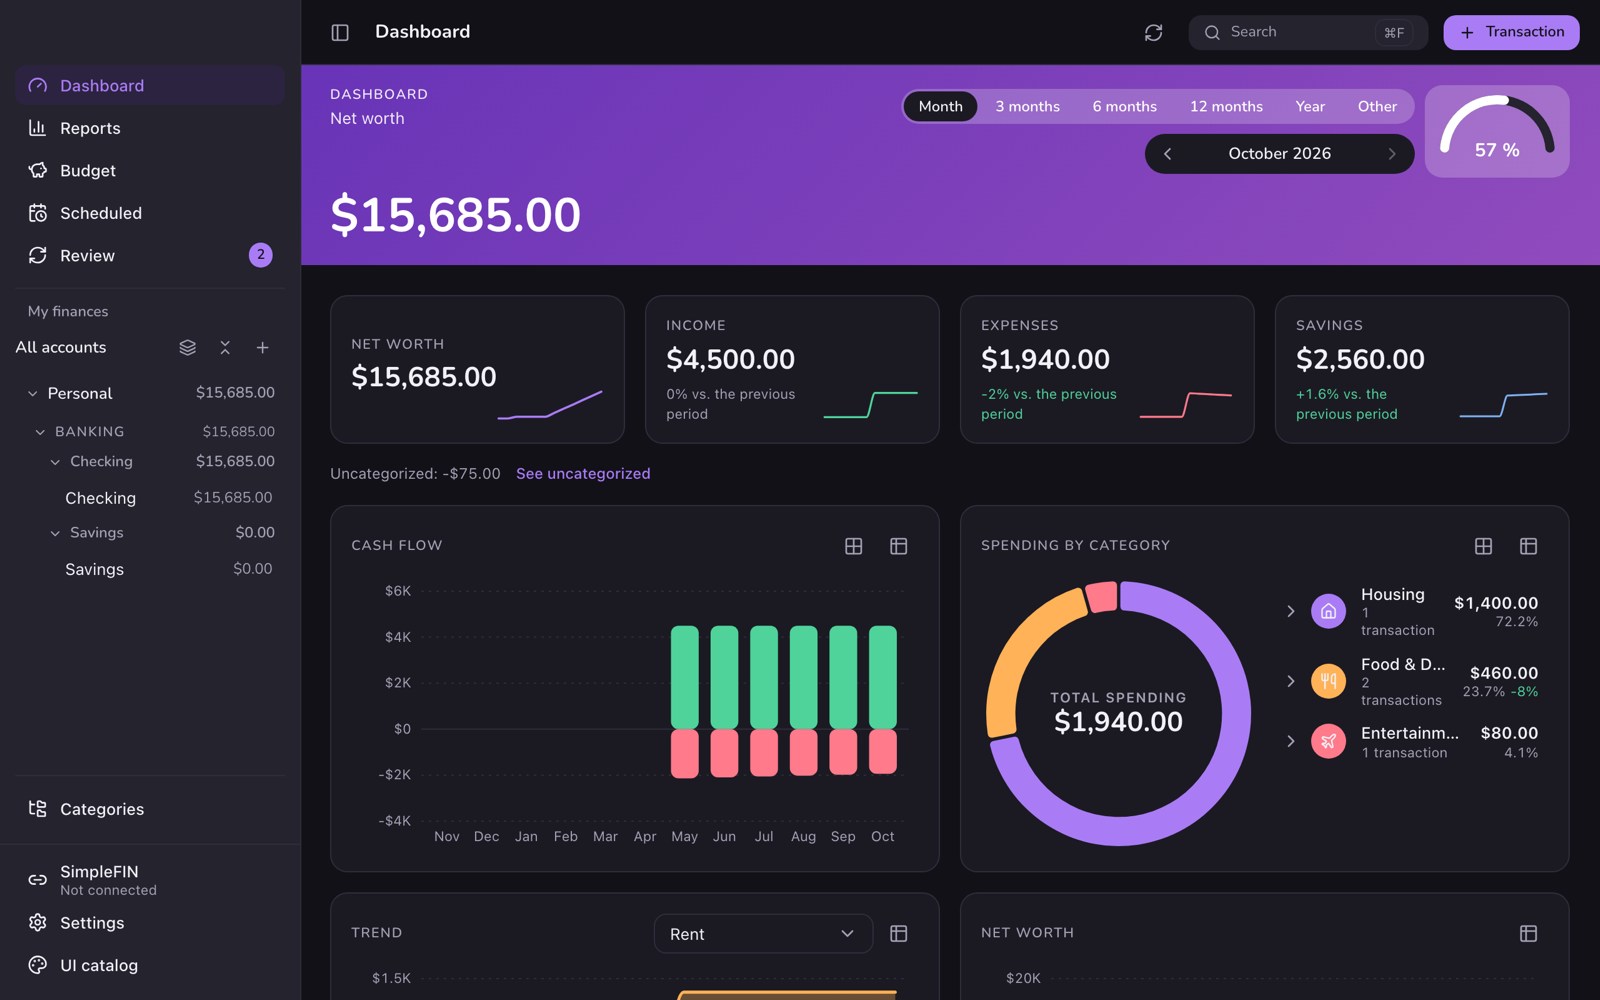
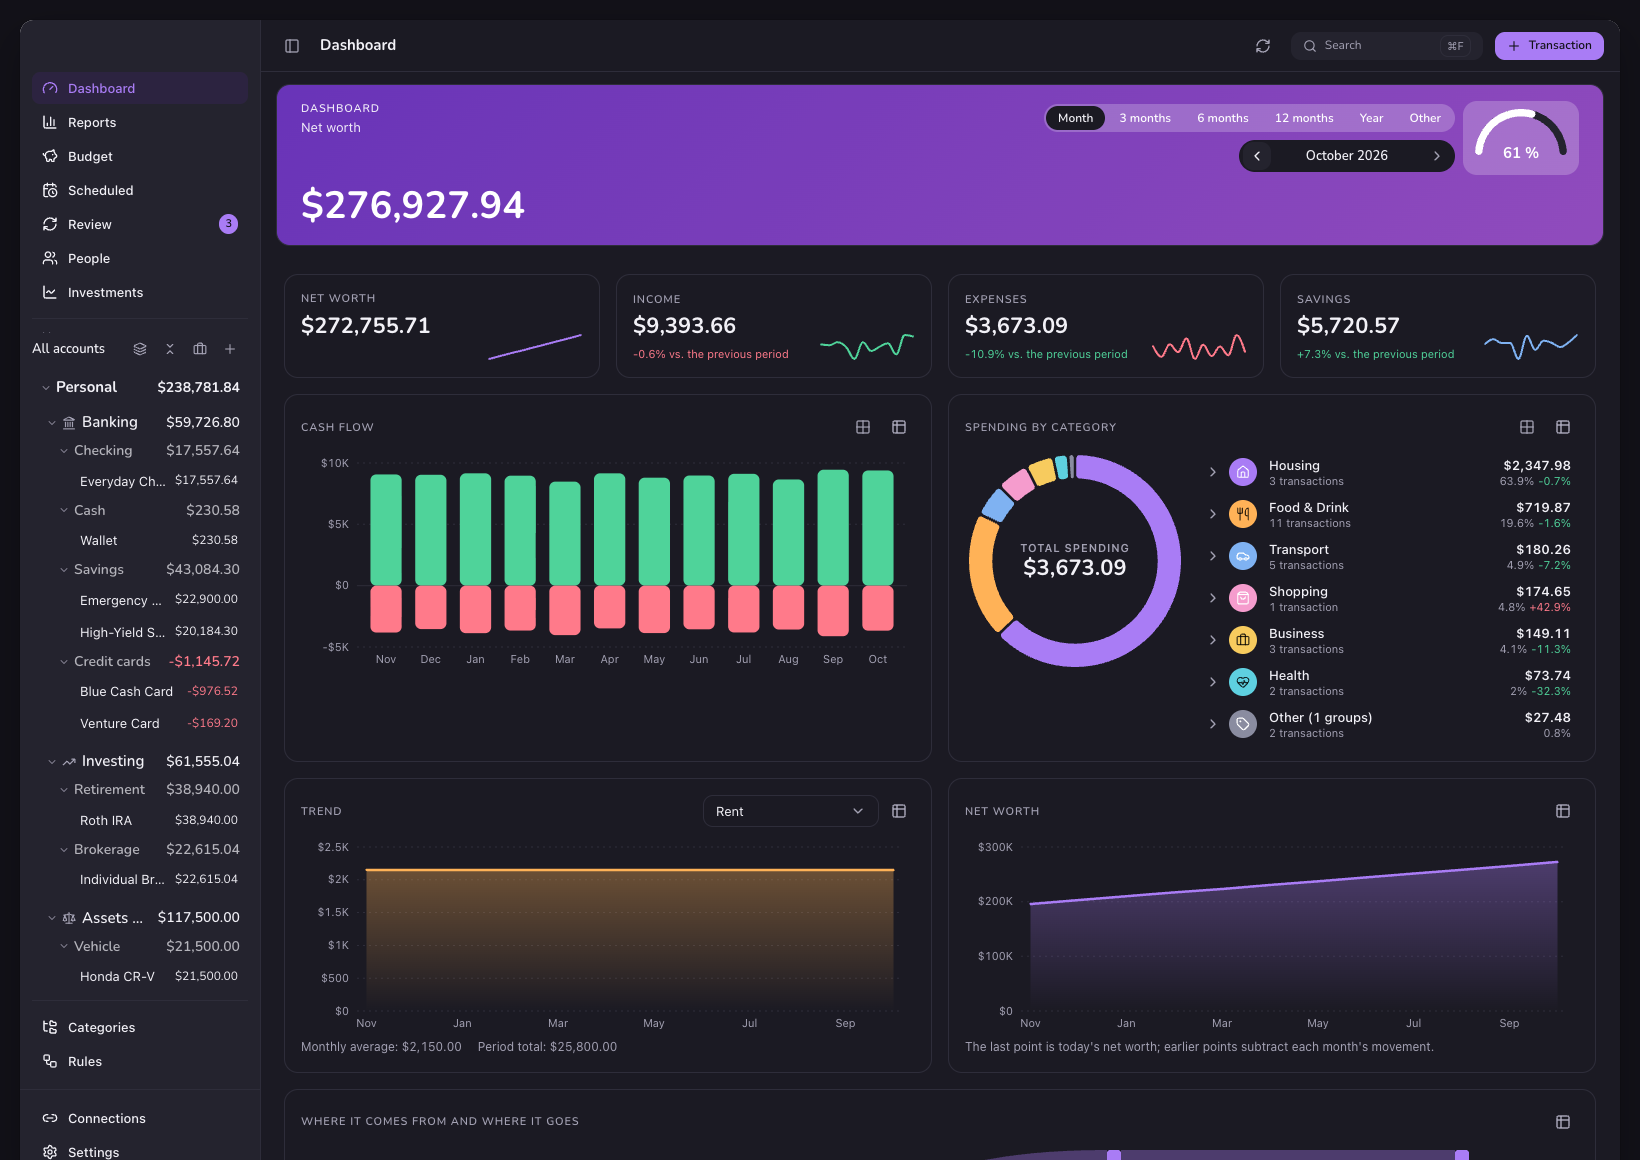
Update README and screenshots for 1.9.0 (new dashboard, investments, accounts)

diff --git a/README.md b/README.md
@@ -7,7 +7,7 @@
 **Personal finance for Mac that lives on your Mac.**<br />
 No account. No cloud. No tracking. Just your money, in a file you own.
 
-[**Download for Mac**](https://github.com/Atrom-US/sabioflow-releases/releases/latest) &nbsp;·&nbsp; [What's new](https://github.com/Atrom-US/sabioflow-releases/releases) &nbsp;·&nbsp; [License](LICENSE)
+[**Download for Mac**](https://github.com/Atrom-US/sabioflow-releases/releases/latest) &nbsp;·&nbsp; [What's new](https://github.com/Atrom-US/sabioflow-releases/releases) &nbsp;·&nbsp; [License](LICENSE) &nbsp;·&nbsp; [atrom.us](https://atrom.us)
 
 ![Platform](https://img.shields.io/badge/macOS-13%2B-black?logo=apple&logoColor=white)
 ![Apple Silicon](https://img.shields.io/badge/Apple%20Silicon-arm64-7c3aed)
@@ -40,14 +40,28 @@ Most money apps want your login, your bank credentials and a monthly fee, and th
 <tr>
 <td width="50%" valign="top">
 
-### 📒 A register that keeps up with you
-Add transactions in a fast inline row (`⌘N`), split them across categories, link transfers between accounts, edit many at once with `⌘E`, and undo mistakes with `⌘Z`.
+### 📊 A dashboard that answers “how am I doing?”
+Net worth, income, expenses and savings at a glance, with cash flow, spending by category, trends and a map of where your money comes from and where it goes.
 
 </td>
 <td width="50%" valign="top">
 
-### 🏦 Connect your bank, privately
-Sync your accounts through [SimpleFIN Bridge](https://www.simplefin.org/). Your bank connection is stored only in your Mac's Keychain, never in your file and never on our servers.
+### 📒 A register that keeps up with you
+Add transactions in a fast inline row (`⌘N`), type a calculation like `(4*2)+1/2` in any amount, split across categories, tag with suggestions, link transfers, edit many at once with `⌘E`, and undo with `⌘Z`.
+
+</td>
+</tr>
+<tr>
+<td valign="top">
+
+### 🏦 Connect your accounts, privately
+Sync your banks through [SimpleFIN Bridge](https://www.simplefin.org/) and your brokerages, read-only, through [SnapTrade](https://snaptrade.com/). Credentials are stored only in your Mac's Keychain, never in your file. SabioFlow never places, changes or cancels an order.
+
+</td>
+<td valign="top">
+
+### 📈 Investments in the same place
+See each investment account's total value, how much is invested and how much is cash, plus a value-over-time chart, next to your everyday accounts and in your net worth.
 
 </td>
 </tr>
@@ -55,56 +69,70 @@ Sync your accounts through [SimpleFIN Bridge](https://www.simplefin.org/). Your 
 <td valign="top">
 
 ### 📥 Bring your history with you
-Import CSV, OFX, QFX, QIF and Quicken ZIP files, or just drag a file onto an account. Every import is a batch you can review and undo.
+Import CSV, OFX, QFX, QIF, Quicken ZIP and `.quicken` files, or just drag a file onto an account. Re-importing never duplicates what you already have, and every import is a batch you can review and undo.
 
 </td>
 <td valign="top">
 
 ### 🧠 Smart categorization
-Rules and suggestions learn from how you categorize. The **Review** inbox catches new, uncategorized and possible transfer transactions.
+Rules and suggestions learn from how you categorize. The **Review** inbox catches new, uncategorized and possible transfer transactions, and links a refund to the purchase it corrects so your spending stays right.
 
 </td>
 </tr>
 <tr>
 <td valign="top">
 
-### 📊 Reports and a real budget
-See where your money goes with spending, income, cash flow and net worth reports. Save the ones you use and export them to CSV.
+### 🗓 Budgets and reports you can act on
+A monthly budget that shows what is left in every category, scheduled transactions, and spending, income, cash flow and net worth reports. Save the ones you use and export them to CSV.
 
 </td>
 <td valign="top">
 
-### 🌎 Multiple currencies
-Track accounts in USD, COP, MXN and EUR with automatic exchange rates, or set your own rate by hand.
+### 🏢 Personal and business, side by side
+Keep business accounts separate, assign a business expense paid with a personal card, and track money you lend or owe to people.
 
 </td>
 </tr>
 </table>
 
-Also included: scheduled transactions, tags, attachments, reconciliation, automatic and manual backups, business accounts, global search (`⌘F`) and an interface in **English and Spanish**.
+Also included: tags, attachments, reconciliation, multiple currencies (USD, COP, MXN and EUR with automatic exchange rates or your own), automatic and manual backups, global search (`⌘F`) and an interface in **English and Spanish**.
 
 ## A closer look
 
 <table>
 <tr>
 <td width="50%">
-<img src="assets/register-light.png" alt="The transaction register with categories, balances and review flags" />
+<img src="assets/register-dark.png" alt="The transaction register in dark mode, with an account summary, categories and a running balance" />
 <p align="center"><sub><b>Register</b> — fast, keyboard-friendly and always balanced</sub></p>
 </td>
 <td width="50%">
-<img src="assets/budget-light.png" alt="The monthly budget showing what is left in each category" />
-<p align="center"><sub><b>Budget</b> — see what is left in every category</sub></p>
+<img src="assets/accounts-light.png" alt="One list of accounts grouped by bank, with SnapTrade and manual accounts" />
+<p align="center"><sub><b>Accounts</b> — one list, grouped by bank</sub></p>
 </td>
 </tr>
 <tr>
-<td colspan="2">
-<img src="assets/reports-light.png" alt="The spending report broken down by category" />
+<td>
+<img src="assets/budget-dark.png" alt="The monthly budget in dark mode showing what is left in each category" />
+<p align="center"><sub><b>Budget</b> — see what is left in every category</sub></p>
+</td>
+<td>
+<img src="assets/investments-dark.png" alt="An investment account with its total value, invested amount, cash and value chart" />
+<p align="center"><sub><b>Investments</b> — value and history, read-only</sub></p>
+</td>
+</tr>
+<tr>
+<td>
+<img src="assets/reports-light.png" alt="The spending report with a monthly chart and a breakdown by category" />
 <p align="center"><sub><b>Reports</b> — understand your spending in seconds</sub></p>
+</td>
+<td>
+<img src="assets/review-light.png" alt="The Review inbox with transactions waiting for a category" />
+<p align="center"><sub><b>Review</b> — nothing slips through uncategorized</sub></p>
 </td>
 </tr>
 </table>
 
-> The screenshots use sample data.
+> All screenshots use made-up sample data.
 
 ## Download and install
 
@@ -137,7 +165,8 @@ Before installing, the app verifies the update's cryptographic signature and mak
 - Your document never leaves your Mac unless you move it yourself.
 - The app only connects to the internet to:
   - fetch exchange rates (it sends only currency codes and dates),
-  - sync your bank through SimpleFIN, **if you choose to connect it**, and
+  - sync your bank through SimpleFIN, **if you choose to connect it**,
+  - read your brokerage accounts (read-only) through SnapTrade, **if you choose to connect it**, and
   - check for updates.
 
 ## License
@@ -147,5 +176,5 @@ SabioFlow is proprietary software, **not open source**. This repository contains
 <br />
 
 <div align="center">
-<sub>© 2026 zjubiz. All rights reserved.</sub>
+<sub>Made by <a href="https://atrom.us">Atrom</a> · © 2026 zjubiz. All rights reserved.</sub>
 </div>
